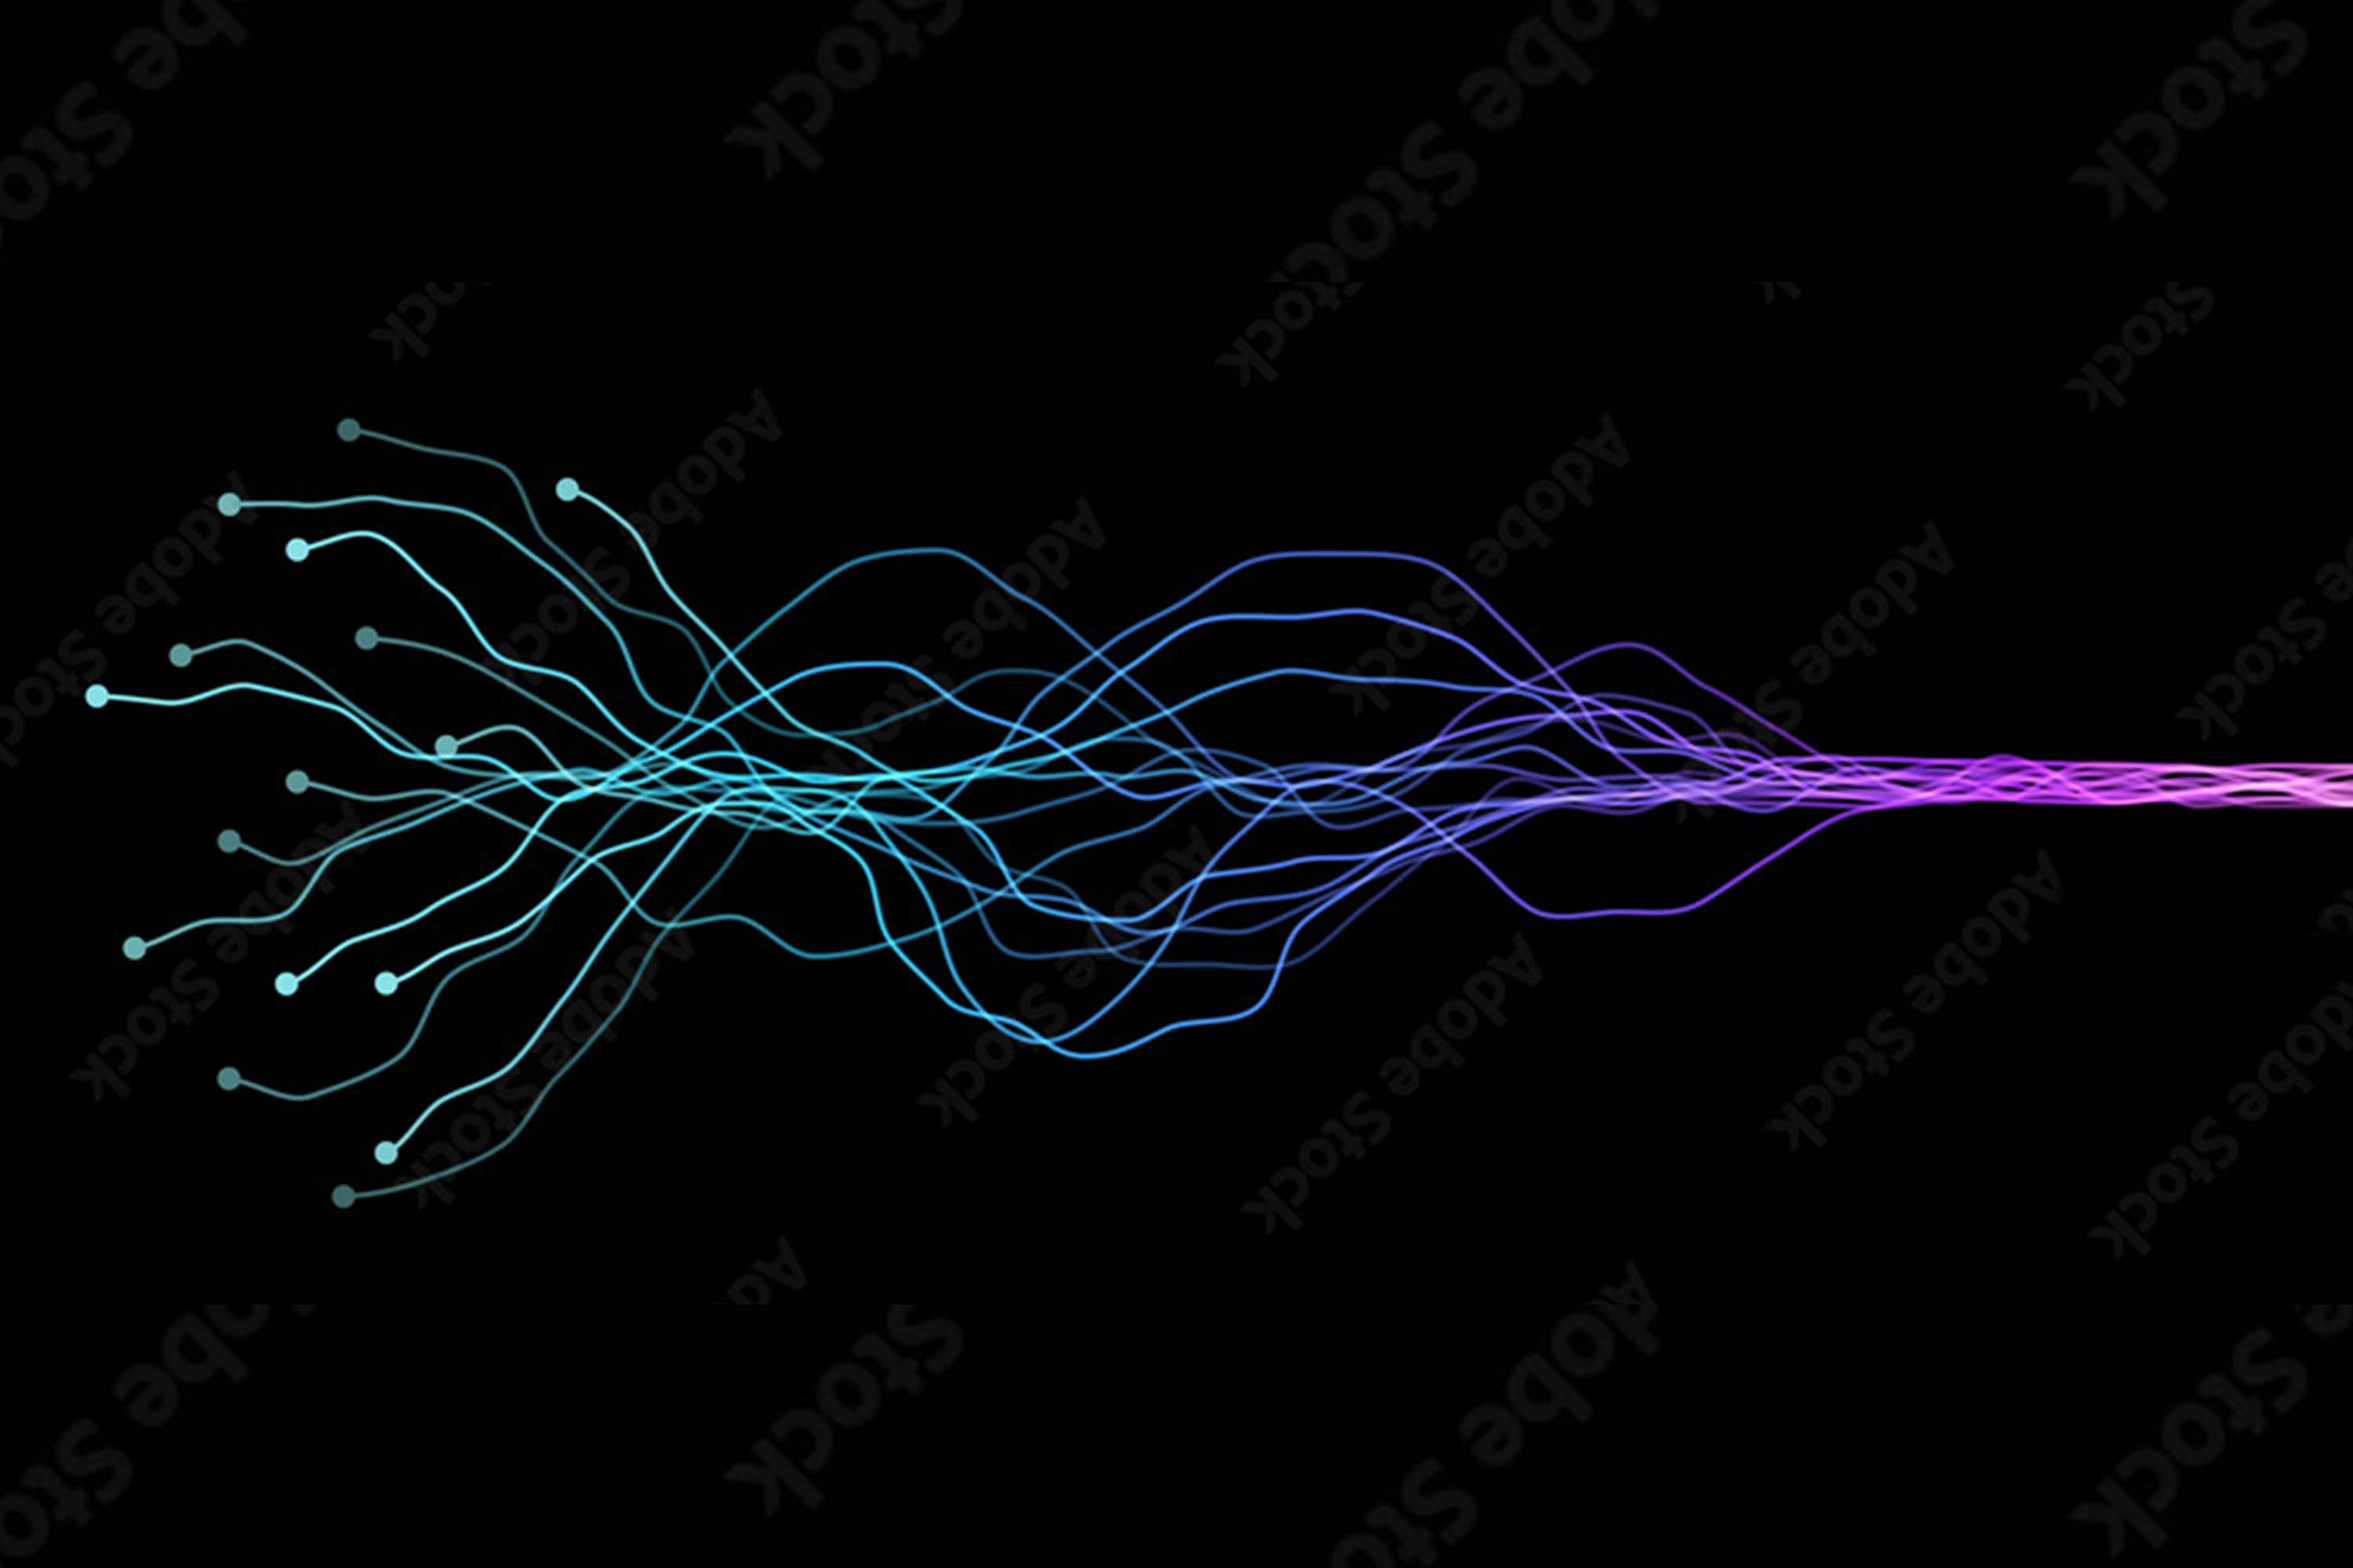
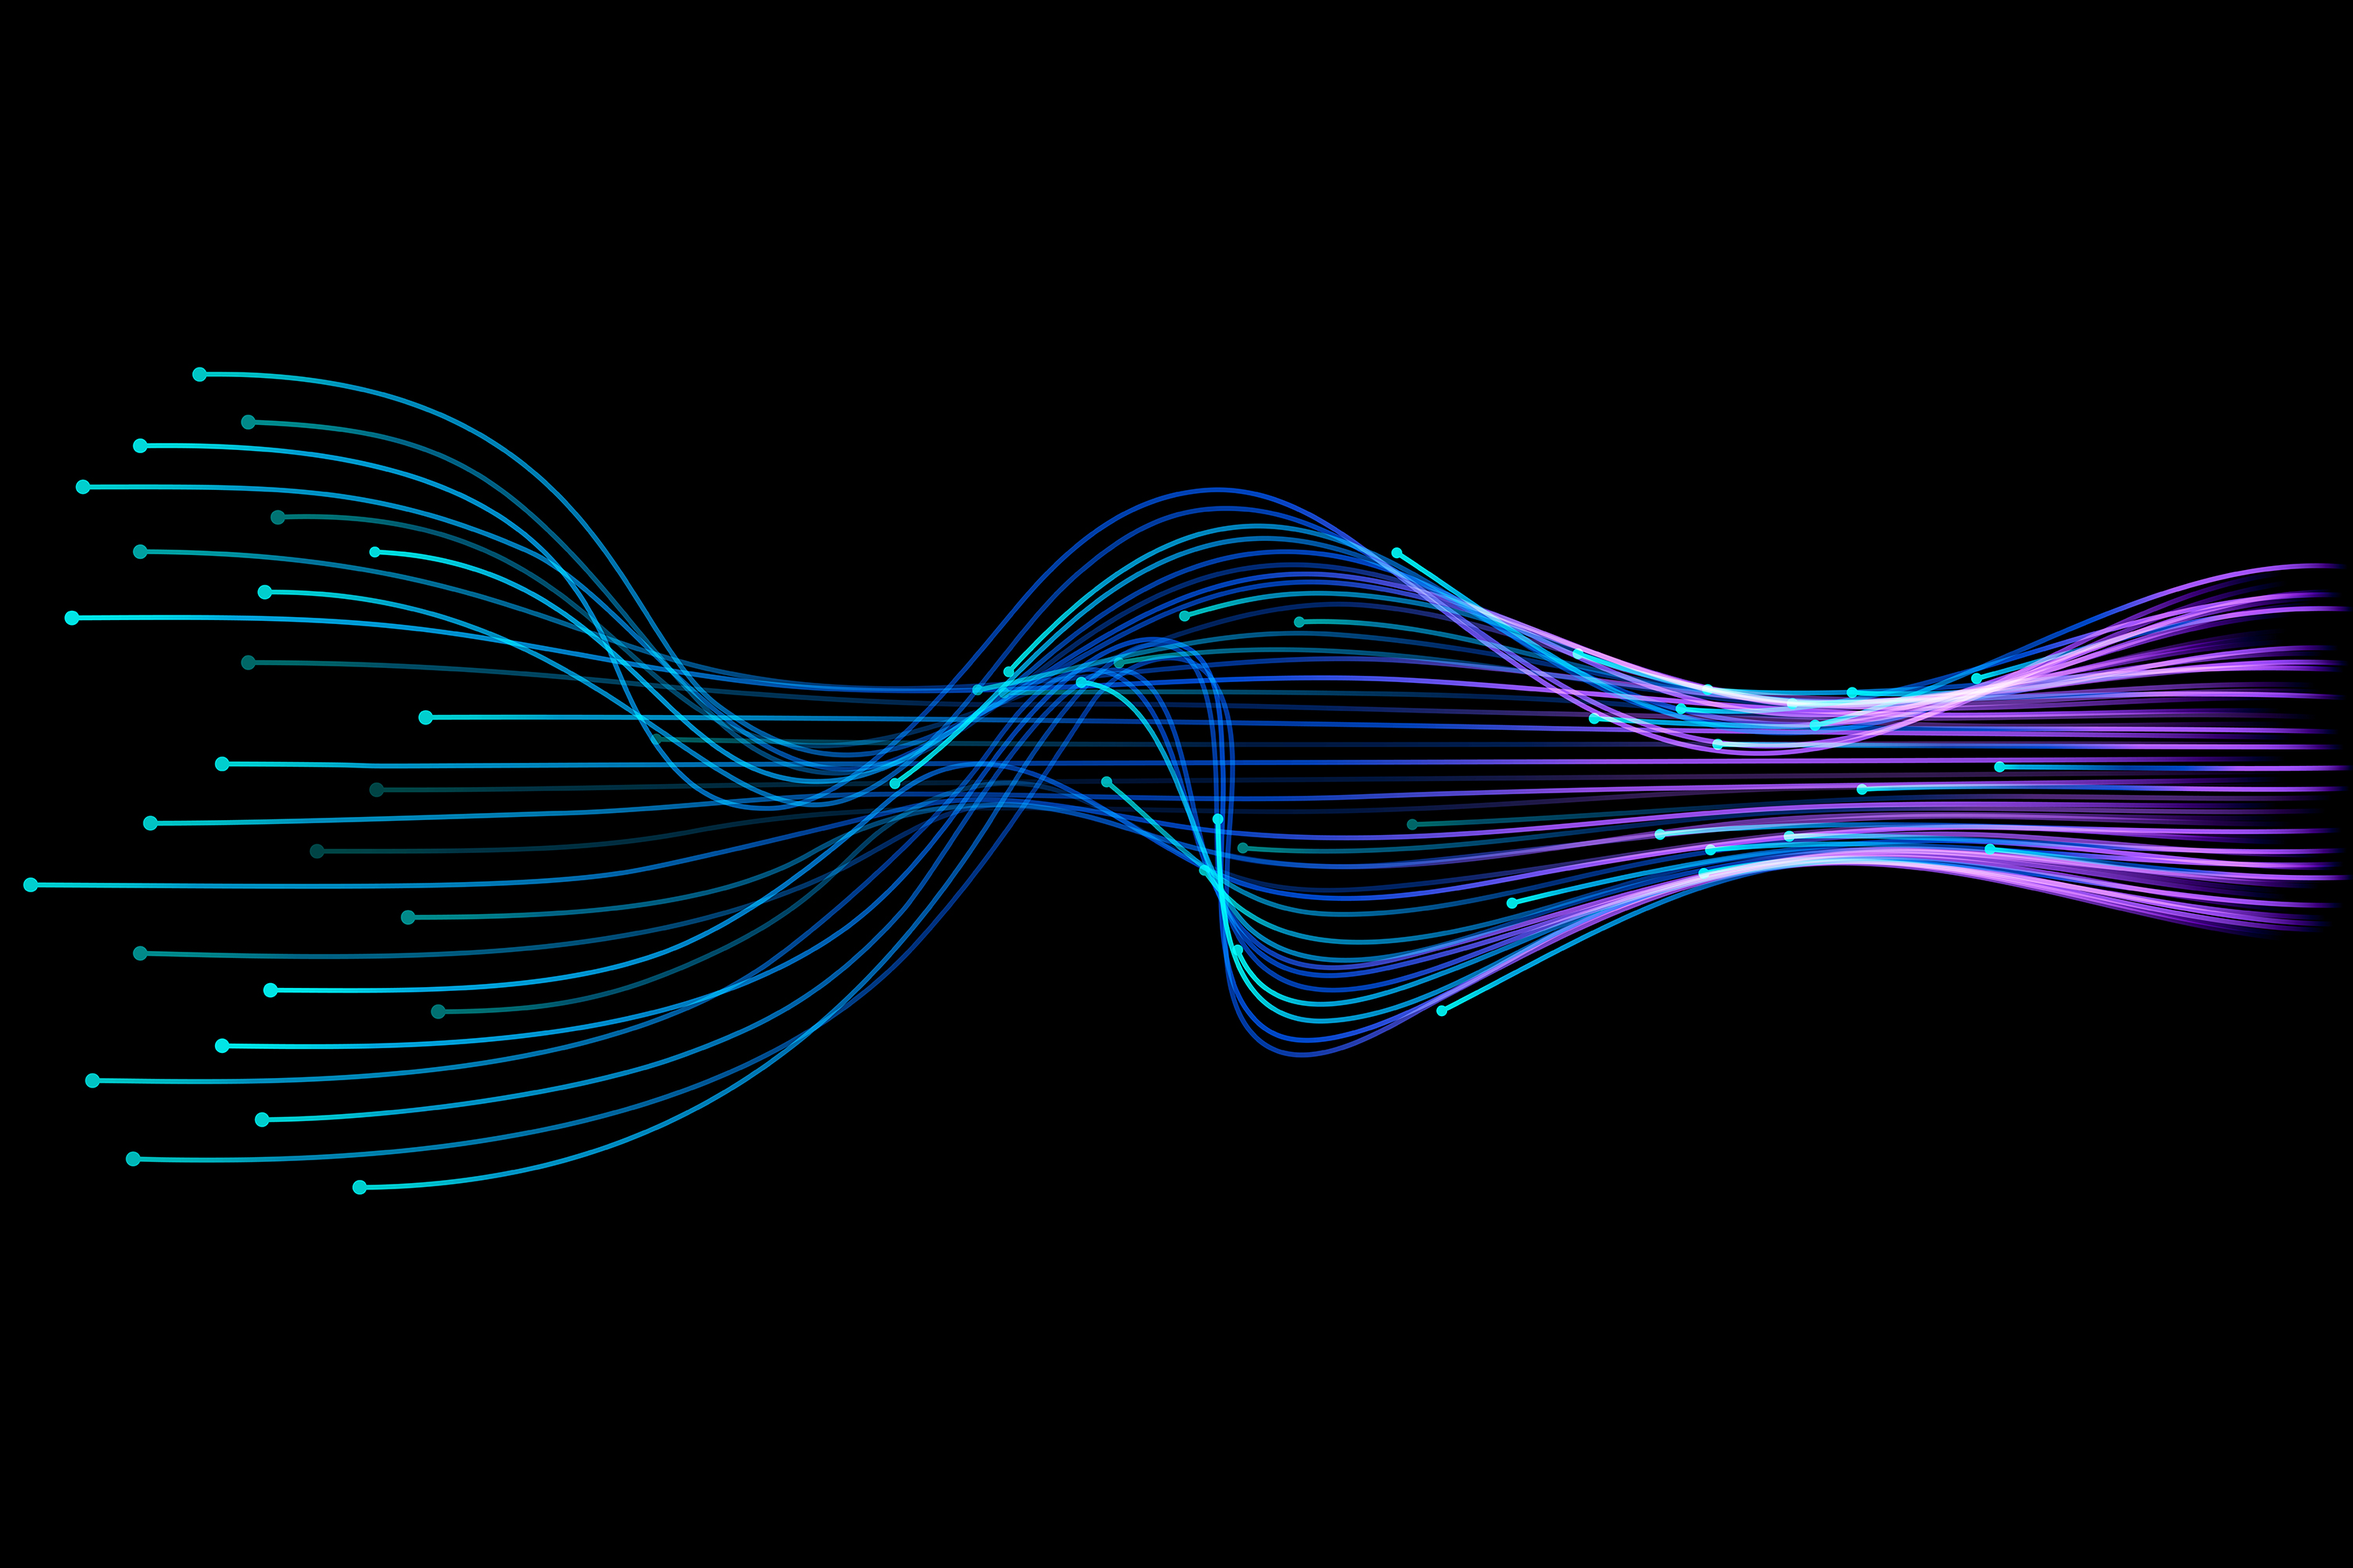
switch images

Changed region(s): [[0.0, 0.217, 1.0, 0.775]]

diff --git a/index.html b/index.html
@@ -84,61 +84,68 @@
 
     <!-- home
     ================================================== -->
-    <section id="home" class="s-home target-section" data-parallax="scroll" data-image-src="/images/option-08.jpg"
-        data-natural-width=3000 data-natural-height=2000 data-position-y=top>
+    <section id="home">
 
-        <div class="shadow-overlay"></div>
-
-        <div class="home-content">
-
-            <div class="row">
-                <h1 class="home-content__main">
-                    Automating the Customer <br> Support Lifecycle.
-                </h1>
-
-                <p>
-                    Quark.AI’s revolutionary Autonomous Support <br> platform harnesses the power of Artificial <br>
-                    Intelligence
-                    to deliver fast, efficient technical, <br> field and sales support.
-                </p>
-
-                <ul class="home-button">
-                    <li><a href="/request-a-demo.html">Request a demo</a></li>
-                    <li><a href="#product" class="smoothscroll">Learn more</a></li>
-                </ul>
-            </div> <!-- end home-content__main -->
-
-
-            <div class="logos-home">
-                <a href="#" target="_blank">
-                    <img class="logo-home-award" src="/images/Award-logo-2.png" alt=""></a>
-                <a href="https://quark.ai/quark-ai-earns-prestigious-iso-iec-270012013-certification/" target="_blank">
-                    <img class="logo-home" src="/images/drata-logo.png" alt=""></a>
-                <a href="https://quark.ai/quark-ai-selected-as-tie50-2022-award-winner/" target="_blank">
-                    <img class="logo-home" src="/images/Tie-logo.png" alt=""></a>
+        <div class="s-home target-section" data-parallax="scroll" data-position-y=top>
+            <div class="shadow-overlay" data-natural-width=3000 data-natural-height=2000>
+                <img id="switch-img" src="/images/option-03.jpg">
             </div>
 
-            <div>
-                <a href="#introduction" class="home-scroll smoothscroll">
-                    <span class="home-scroll__text">Scroll Down</span>
-                    <span class="home-scroll__icon"></span>
-                </a>
-            </div><!-- end home-scroll -->
-        </div> <!-- end home-content -->
+            <div class="home-content">
+
+                <div class="row">
+                    <h1 class="home-content__main">
+                        Automating the Customer <br> Support Lifecycle.
+                    </h1>
+
+                    <p>
+                        Quark.AI’s revolutionary Autonomous Support <br> platform harnesses the power of Artificial <br>
+                        Intelligence
+                        to deliver fast, efficient technical, <br> field and sales support.
+                    </p>
+
+                    <ul class="home-button">
+                        <li><a href="/request-a-demo.html">Request a demo</a></li>
+                        <li><a href="#product" class="smoothscroll">Learn more</a></li>
+                    </ul>
+                </div> <!-- end home-content__main -->
 
 
-        <ul class="home-sidelinks">
-            <li>News
-                    <span><a href="/news.html" target="_blank" rel="noopener noreferrer"> Quark.ai CEO, in Digital Commerce 360 – Part 3</a> </span>
-                    <span><a href="/news.html" target="_blank" rel="noopener noreferrer"> Quark.ai Autonomous Support Platform Brings Automation</a></span>
-                    <span><a href="/news.html" target="_blank" rel="noopener noreferrer" >Quark.ai CEO, in Digital Commerce 360 – Part 2</a></span>
-               </li>
-        </ul> <!-- end home-sidelinks -->
+                <div class="logos-home">
+                    <a href="#" target="_blank">
+                        <img class="logo-home-award" src="/images/Award-logo-2.png" alt=""></a>
+                    <a href="https://quark.ai/quark-ai-earns-prestigious-iso-iec-270012013-certification/"
+                        target="_blank">
+                        <img class="logo-home" src="/images/drata-logo.png" alt=""></a>
+                    <a href="https://quark.ai/quark-ai-selected-as-tie50-2022-award-winner/" target="_blank">
+                        <img class="logo-home" src="/images/Tie-logo.png" alt=""></a>
+                </div>
+
+                <div>
+                    <a href="#introduction" class="home-scroll smoothscroll">
+                        <span class="home-scroll__text">Scroll Down</span>
+                        <span class="home-scroll__icon"></span>
+                    </a>
+                </div><!-- end home-scroll -->
+            </div> <!-- end home-content -->
 
 
+            <ul class="home-sidelinks">
+                <li>News
+                    <span><a href="/news.html" target="_blank" rel="noopener noreferrer"> Quark.ai CEO, in Digital
+                            Commerce
+                            360 – Part 3 </span></a>
+                    <span><a href="/news.html" target="_blank" rel="noopener noreferrer"> Quark.ai Autonomous Support
+                            Platform Brings Automation</span></a>
+                    <span><a href="/news.html" target="_blank" rel="noopener noreferrer">Quark.ai CEO, in Digital
+                            Commerce
+                            360 – Part 2</span></a>
+                </li>
+            </ul> <!-- end home-sidelinks -->
 
-
+        </div>
     </section> <!-- end s-home -->
+
 
 
     <!-- introduction
@@ -575,6 +582,7 @@
     <script src="js/jquery-3.2.1.min.js"></script>
     <script src="js/plugins.js"></script>
     <script src="js/main.js"></script>
+    <script src="js/switch-images.js"></script>
 
 </body>
 

diff --git a/js/switch-images.js b/js/switch-images.js
@@ -1,0 +1,21 @@
+function rand(n) {
+    return (Math.floor(Math.random() * n + 1));
+}
+
+var switch_image = new Array();
+switch_image[0] = "/images/option-01.jpg";
+switch_image[1] = "/images/option-02.jpg";
+switch_image[2] = "/images/option-03.jpg";
+switch_image[3] = "/images/option-04.jpg";
+switch_image[4] = "/images/option-05.jpg";
+switch_image[5] = "/images/option-06.jpg";
+switch_image[6] = "/images/option-07.jpg";
+switch_image[7] = "/images/option-08.jpg";
+switch_image[8] = "/images/option-09.jpg";
+
+
+function change() {
+    document.getElementById("switch-img").src = switch_image[rand(8) - 1];
+}
+
+window.addEventListener("load", change, false);

diff --git a/css/main.css b/css/main.css
@@ -1902,7 +1902,7 @@ padding: 4rem;
   left: 0;
   width: 100%;
   height: 100%;
-  opacity: 0.1;
+  opacity: 0.17;
   background: linear-gradient(to right, black 0%, black 20%, transparent 100%);
 }
 
@@ -2024,7 +2024,7 @@ padding: 4rem;
 .home-sidelinks a {
   display: block;
   padding: 2.1rem 5rem 2.1rem 2rem;
-  color: rgba(188, 188, 188, 0.462);
+  color: rgba(242, 242, 242, 0.75);
   margin-bottom: 1rem;
 }
 
